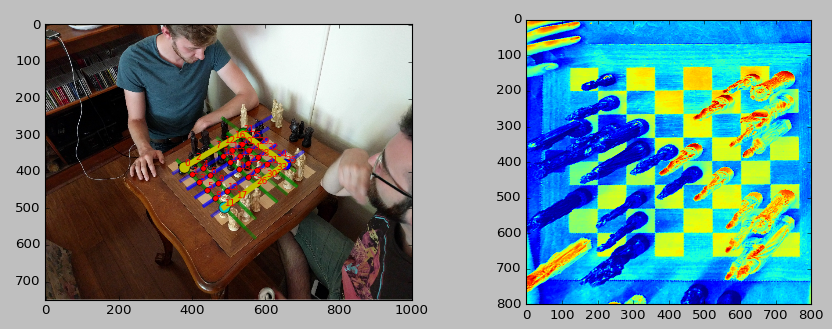
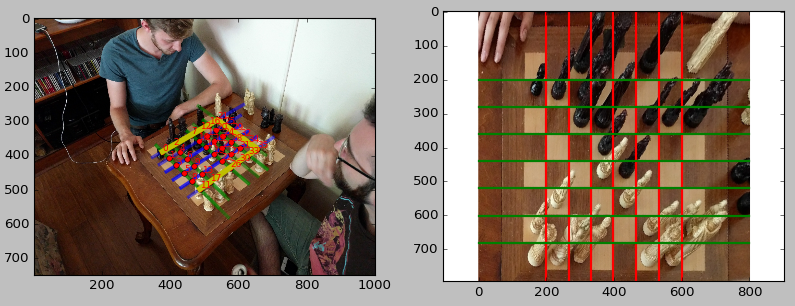
improved warped line detection and visuals

diff --git a/chessboard_detect.py b/chessboard_detect.py
@@ -9,10 +9,12 @@ from chess_detect_helper import *
 np.set_printoptions(suppress=True) # Better printing of arrays
 
 for i in range(1,13):
+# for i in [10]:
 # for i in [4,12,11,7,8]:
-# for i in [12]:
-
+# for i in [7]:
+# for i in [1,7,9]:
   filename = "%d.jpg" % i
+  print("Processing %s" % filename)
   img_orig = scaleImageIfNeeded(PIL.Image.open(filename))
 
   # Grayscale
@@ -27,9 +29,9 @@ for i in range(1,13):
   chess_pts = chess_pts[np.argsort(chess_pts[:,0]),:] # Sort by y height
   # chess_pts = chess_pts[np.argsort(np.sum(chess_pts,1)),:] # Sort by y height
 
-  plt.figure(filename, figsize=(20,8))
+  plt.figure(filename, figsize=(8,8))
 
-  plt.subplot(121)
+  plt.subplot(221)
   plt.imshow(img_orig)
 
   # Lines
@@ -52,14 +54,86 @@ for i in range(1,13):
   # Find perspective transform between corners of image to an idealized overhead
   # We add on two tiles in each direction to account for potential missing lines
   #  (the assumption being the algorithm should be able to find lines within 2 of edge always)
-  ideal_corners = np.array([[0,0], [0,1], [1,1], [1,0]], dtype=np.float32)*400+200
+  ideal_corners = np.array([[0,0], [1,0], [1,1], [0,1]], dtype=np.float32)*400+200
   M = cv2.getPerspectiveTransform(corners, ideal_corners)
-  warped_img = cv2.warpPerspective(img, M, (800, 800))
+  warped_img = cv2.warpPerspective(np.array(img_orig), M, (800, 800))
 
-  plt.subplot(122)
+  plt.subplot(222)
   plt.imshow(warped_img)
 
-  # print(M)
+  # TODO: Fix awkward conversion
+  # Convert RGB numpy array to image, then to grayscale image, then back to numpy array
+  warped_img_gray = np.array(PIL.Image.fromarray(warped_img).convert('L'))
+  warped_img_gray = cv2.bilateralFilter(warped_img_gray,15,75,75)
+
+  # Find gradients
+  sobelx = cv2.Sobel(warped_img_gray,cv2.CV_64F,1,0,ksize=5)
+  # sobelx[warped_img_gray==0] = 0
+  sobely = cv2.Sobel(warped_img_gray,cv2.CV_64F,0,1,ksize=5)
+  # sobely[warped_img_gray==0] = 0
+
+  sobelx_pos = sobelx.copy()
+  sobelx_pos[sobelx <= 0] = 0
+  sobelx_neg = sobelx.copy()
+  sobelx_neg[sobelx > 0] = 0
+
+  sobely_pos = sobely.copy()
+  sobely_pos[sobely <= 0] = 0
+  sobely_neg = sobely.copy()
+  sobely_neg[sobely > 0] = 0
+
+  checker_x = np.sum(sobelx_pos, axis=0) * np.sum(-sobelx_neg, axis=0)
+  checker_x = skeletonize_1d(checker_x)
+
+  checker_y = np.sum(sobely_pos, axis=1) * np.sum(-sobely_neg, axis=1)
+  checker_y = skeletonize_1d(checker_y)
+
+  x_lines = np.argwhere(checker_x).flatten()
+  y_lines = np.argwhere(checker_y).flatten()
+
+  if len(x_lines) < 7 or len(y_lines) < 7:
+    print("%s : Skipping, not enough lines in warped image" % filename)
+    continue
+
+  # Select set of 7 adjacent lines with max sum score
+  x_scores = np.zeros(7)
+  for i in range(0,x_lines.shape[0]-7+1):
+    x_scores[i] = np.sum(checker_x[x_lines[i:i+7]])
+  x_start = np.argmax(x_scores)
+  strongest_x_lines = range(x_start,x_start+7)
+
+  y_scores = np.zeros(7)
+  for i in range(0,y_lines.shape[0]-7+1):
+    y_scores[i] = np.sum(checker_y[y_lines[i:i+7]])
+  y_start = np.argmax(y_scores)
+  strongest_y_lines = range(y_start,y_start+7)
+
+  # strongest_x_lines = np.argsort(checker_x[x_lines])[::-1][:7]
+  # strongest_y_lines = np.argsort(checker_y[y_lines])[::-1][:7]
+  
+  plt.subplot(223)
+  plt.plot(checker_x, '.-')
+  # print(strongest_x_lines)
+  # print(x_lines)
+  for k in strongest_x_lines:
+    idx = x_lines[k]
+    plt.plot([idx, idx], [0, np.max(checker_x)], 'r',lw=2)
+  
+  plt.subplot(224)
+  plt.plot(checker_y, '.-')
+  for k in strongest_y_lines:
+    idx = y_lines[k]
+    plt.plot([idx, idx], [0, np.max(checker_y)], 'g',lw=2)
+  # plt.imshow(sobelx)
+
+  
+  plt.subplot(222)
+  for idx in x_lines[strongest_x_lines]:
+    plt.plot([idx, idx], [0, warped_img_gray.shape[0]], 'r', lw=2)
+  for idx in y_lines[strongest_y_lines]:
+    plt.plot([0, warped_img_gray.shape[1]], [idx, idx], 'g', lw=2)
+
+  plt.axis('equal')
 
 plt.show()
 

diff --git a/helpers.py b/helpers.py
@@ -149,3 +149,23 @@ def chooseBestSegments(segments, line_mags):
   # print("mags:",segment_mags)
   order = np.argsort(segment_mags)[::-1]
   return order[:2] # Top two segments only
+
+def skeletonize_1d(arr, win=50):
+  """return skeletonized 1d array (thin to single value, favor to the right)"""
+  _arr = arr.copy() # create a copy of array to modify without destroying original
+  # Go forwards
+  for i in range(_arr.size-1):
+    if _arr[i] == 0:
+      continue
+    # Will right-shift if they are the same
+    if np.any(arr[i] <= arr[i+1:i+win+1]):
+      _arr[i] = 0
+  
+  # Go reverse
+  for i in np.arange(_arr.size-1, 0,-1):
+    if _arr[i] == 0:
+      continue
+
+    if np.any(arr[max(0,i-win):i] > arr[i]):
+      _arr[i] = 0
+  return _arr
